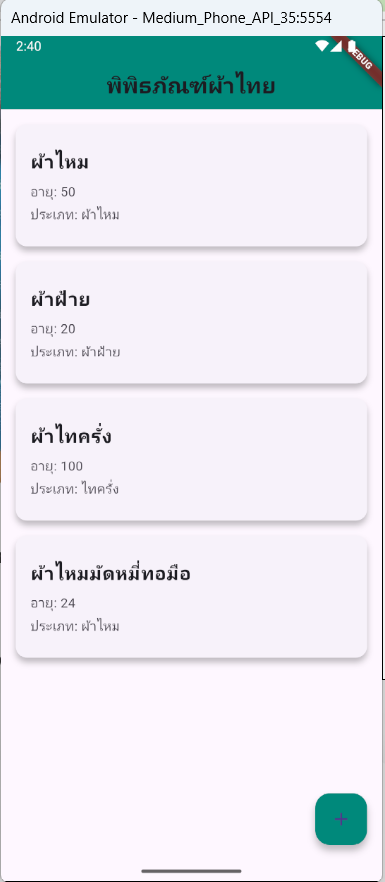
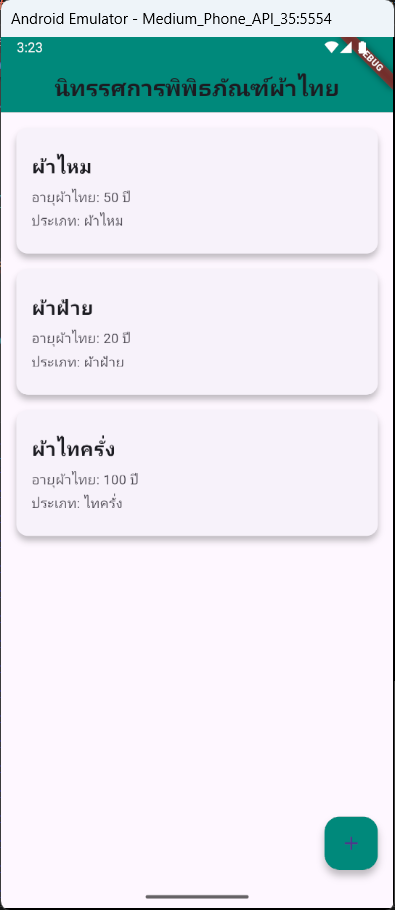
cm

diff --git a/lib/main.dart b/lib/main.dart
@@ -24,9 +24,9 @@ class HomePage extends StatefulWidget {
 
 class _HomePageState extends State<HomePage> {
   List<Map<String, dynamic>> textiles = [
-    {'name': 'ผ้าไหม', 'age': '50', 'category': 'ผ้าไหม'},
-    {'name': 'ผ้าฝ้าย', 'age': '20 ', 'category': 'ผ้าฝ้าย'},
-    {'name': 'ผ้าไทครั่ง', 'age': '100', 'category': 'ไทครั่ง'}
+    {'name': 'ผ้าไหม', 'age': '50 ปี', 'category': 'ผ้าไหม'},
+    {'name': 'ผ้าฝ้าย', 'age': '20 ปี', 'category': 'ผ้าฝ้าย'},
+    {'name': 'ผ้าไทครั่ง', 'age': '100 ปี', 'category': 'ไทครั่ง'}
   ];
   @override
   Widget build(BuildContext context) {
@@ -69,7 +69,7 @@ class _HomePageState extends State<HomePage> {
       crossAxisAlignment: CrossAxisAlignment.start,
       children: [
         SizedBox(height: 8),
-        Text('อายุ: ${textiles[index]['age']}'),
+        Text('อายุผ้าไทย: ${textiles[index]['age']}'),
         SizedBox(height: 4),
         Text('ประเภท: ${textiles[index]['category']}'),
       ],
